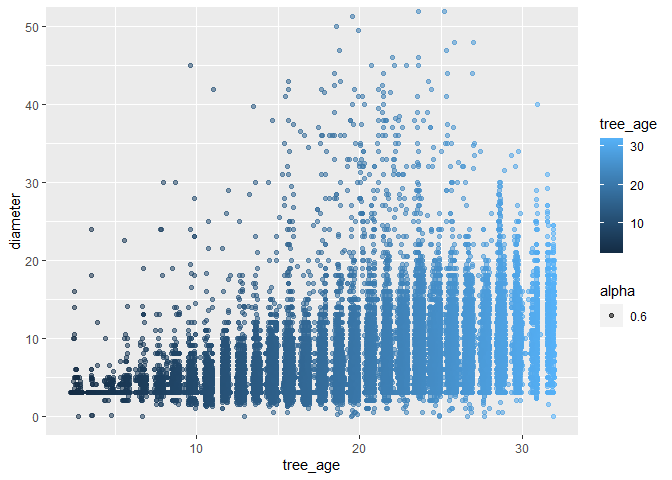
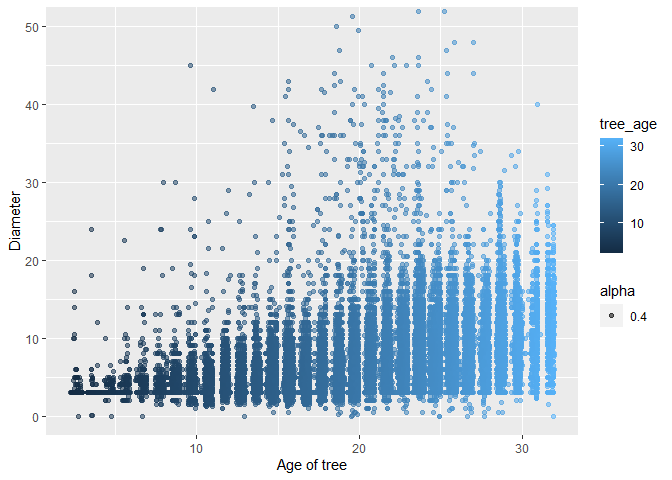
Final update on the analysis. Updated the Rmd file and graphs.

diff --git a/Mini-Data-Analysis.md b/Mini-Data-Analysis.md
@@ -1,10 +1,10 @@
-Mini data analysis - Vancouver trees
+Mini data analysis - vancouver\_trees dataset
 ================
 Yuwei Yang
 2021/10/5
 
 Please install the following three packages before running the code. The
-package datateachr contains 7 data set and we will use 4 of them. The
+package datateachr contains 7 datasets and we will use 4 of them. The
 package tidyverse contains the package dplyr and we will use it to do
 data wrangling. The package ggplot2 is used to do visualization in this
 analysis.
@@ -34,12 +34,12 @@ It currently has 569 rows and 32 columns.
 
 ## 1.2 Explore datasets:
 
-This part, I will check the class of the data using class(), and the
-number of rows and columns, and the name of each columns with some
-useful information using glimse(). You may also use ?dataset to get the
+In this part, I will check the class of the data using class(), and the
+number of rows and columns, and the name of each column with some useful
+information using glimse(). You may also use ?dataset to get the
 description and other relative information for this dataset.
 
-The following is the information for steam\_games data:
+### The following is the information for steam\_games data:
 
 ``` r
 class(steam_games)
@@ -79,7 +79,7 @@ glimpse(steam_games)
 #?steam_games
 ```
 
-The following is the information for flow\_sample data:
+### The following is the information for flow\_sample data:
 
 ``` r
 class(flow_sample)
@@ -101,7 +101,7 @@ glimpse(flow_sample)
     ## $ flow         <dbl> 314, 230, 264, 174, 232, 214, 236, 309, 174, 345, 185, 24~
     ## $ sym          <chr> NA, NA, NA, NA, NA, NA, NA, NA, NA, NA, NA, NA, NA, NA, N~
 
-The following is the information or vancouver\_trees data:
+### The following is the information or vancouver\_trees data:
 
 ``` r
 class(vancouver_trees)
@@ -136,7 +136,7 @@ glimpse(vancouver_trees)
     ## $ longitude          <dbl> -123.1161, -123.1147, -123.0846, -123.0870, -123.08~
     ## $ latitude           <dbl> 49.21776, 49.21776, 49.23938, 49.23469, 49.23894, 4~
 
-The following is the information for cancer\_sample data:
+### The following is the information for cancer\_sample data:
 
 ``` r
 class(cancer_sample)
@@ -185,93 +185,94 @@ glimpse(cancer_sample)
 
 # 1.3 Select dataset:
 
-The following are the questions I have for each dataset.
+The following are the questions I have for each dataset:
 
-steam\_games: 1. Which developer and publisher receive the most
-achievements? 2. Does achievements of the game relate to the
-reviews(both recent and all reviews)?
+*steam\_games:*
 
-flow\_sample: 1. What the relationship of the flow rate respect with
-year? 2. What’s the most busiest day every week?
+1.  Which developer and publisher receive the most achievements?
 
-Vancouver\_trees: 1. For each species, will the height be very
-different? (use jitter plot/side by side boxplot) 2. Will the root
-barrier affect the diameter of the tree within each species? 3. Does the
-plant area relate to the height of the tree? 4. For each neighborhood,
-how many trees were planted?
+2.  Does the achievements of the game relate to the reviews(both recent
+    and all reviews)?
 
-Cancer\_sample: For different diagnosis, will the parameters be
-different?
+*flow\_sample:*
+
+1.  What’s the relationship of the flow rate with respect to year?
+
+2.  What’s the busiest day every week?
+
+*Vancouver\_trees:*
+
+1.  What’s the distribution of the number of trees with respect to
+    different height range?
+
+2.  What’s the relationship between tree diameter and the age of the
+    tree.
+
+3.  Will this relationship be different for each species?
+
+*Cancer\_sample:*
+
+1.  For different diagnoses, will the parameters be different?
 
 I decide to analyze vancouver\_trees because I am currently living in
-vancouver, so I am very interested in the data of this city. Also, the
-data set seems to have some relationships between each variable. For
-example, I am interested in weather the diameter of a tree will be
-affect by other factors.
+Vancouver, so I am very interested in the data of this city. Also, this
+dataset seems to have some interesting relationships between each
+variable. For example, I am interested in whether the diameter of a tree
+will be affected by other factors such as species.
 
-# 2: The following four questions are the goal of this analysis:
+# Task 2: Explore dataset - vancouver\_trees
 
-1.  What’s the distribution of number of trees with respect to different
-    height range?
+## The following three questions are the goal of this analysis:
+
+1.  What’s the distribution of the number of trees with respect to
+    different height range?
 2.  What’s the relationship between tree diameter and the age of this
     tree.
 3.  Will this relationship be different of each species?
-4.  Will the root barrier affect the diameter of the tree within each
-    species?
 
-# 3. Explore dataset
-
-## 1. The first question I am interested in is what the distribution of number of trees with respect to different height range is.I am going to use ggplot2 to plot the distribution of the number of trees using different height range id. The height range is is between 0-10 for every 10 feet (e.g., 0 = 0-10 ft, 1 = 10-20 ft, 2 = 20-30 ft, and 10 = 100+ ft).
+## 1. The first question I am interested in is what the distribution of the number of trees with respect to different height range is. I am going to use ggplot2 to plot the distribution of the number of trees using different height range id. The height range is is between 0-10 for every 10 feet (e.g., 0 = 0-10 ft, 1 = 10-20 ft, 2 = 20-30 ft, and 10 = 100+ ft).
 
 ``` r
 ggplot(vancouver_trees, aes(height_range_id)) +
-  geom_histogram(binwidth=1, fill ="pink", alpha=0.8)+
+  geom_histogram(bins=11, binwidth=1, fill ="pink", alpha=0.8)+
   xlab("Tree Height Range ID")+ylab("Number of Trees")+
-  theme_light()
+  theme_classic()
 ```
 
 ![](Mini-Data-Analysis_files/figure-gfm/unnamed-chunk-6-1.png)<!-- -->
-\#\# 2. The second question I want to analyze is what’s the relationship
-between tree diameter and the age of this tree. I am going to add a new
-column named tree\_age which is the number of years between the trees
-were planted and the current date 2021-10-01(round to 2 decimal places)
-by using dplyr verbs. I will use this tibble later to find the
-relationship between the age of the tree and the height of the tree.
+
+From the histogram above, we can see that most of the trees have a
+height between 10 and 30 ft.
+
+## 2. The second question I want to analyze is the relationship between tree diameter and the age of the tree. I am going to creat a new tibble named vancouver\_trees\_sub which contains species name and diameter. Then, I will add a new column named tree\_age which is the number of years between the tree were planted and the date that this dataset was last updated “2021-10-04”(round to 2 decimal places) by using dplyr verbs. I will use this tibble later to find the relationship between the age of the tree and the height of the tree.
 
 ``` r
-vancouver_trees <- vancouver_trees %>%
+vancouver_trees_sub <- vancouver_trees %>%
   # Calling difftime() function
-  mutate(tree_age = round(as.numeric(difftime("2021-10-01", date_planted, units="days"))/365, 2)) 
+  mutate(tree_age = round(as.numeric(difftime("2021-10-04", date_planted, units="days"))/365, 2)) %>%
   # add tree_age column to vancouver_trees tibble
+  select(species_name, diameter,tree_age)
 
-head(vancouver_trees)
+head(vancouver_trees_sub)
 ```
 
-    ## # A tibble: 6 x 21
-    ##   tree_id civic_number std_street genus_name species_name cultivar_name  
-    ##     <dbl>        <dbl> <chr>      <chr>      <chr>        <chr>          
-    ## 1  149556          494 W 58TH AV  ULMUS      AMERICANA    BRANDON        
-    ## 2  149563          450 W 58TH AV  ZELKOVA    SERRATA      <NA>           
-    ## 3  149579         4994 WINDSOR ST STYRAX     JAPONICA     <NA>           
-    ## 4  149590          858 E 39TH AV  FRAXINUS   AMERICANA    AUTUMN APPLAUSE
-    ## 5  149604         5032 WINDSOR ST ACER       CAMPESTRE    <NA>           
-    ## 6  149616          585 W 61ST AV  PYRUS      CALLERYANA   CHANTICLEER    
-    ## # ... with 15 more variables: common_name <chr>, assigned <chr>,
-    ## #   root_barrier <chr>, plant_area <chr>, on_street_block <dbl>,
-    ## #   on_street <chr>, neighbourhood_name <chr>, street_side_name <chr>,
-    ## #   height_range_id <dbl>, diameter <dbl>, curb <chr>, date_planted <date>,
-    ## #   longitude <dbl>, latitude <dbl>, tree_age <dbl>
+    ## # A tibble: 6 x 3
+    ##   species_name diameter tree_age
+    ##   <chr>           <dbl>    <dbl>
+    ## 1 AMERICANA          10     22.7
+    ## 2 SERRATA            10     25.4
+    ## 3 JAPONICA            4     27.9
+    ## 4 AMERICANA          18     25.4
+    ## 5 CAMPESTRE           9     27.8
+    ## 6 CALLERYANA          5     NA
 
-3.  Next, I am going to find out if there is a relationship between the
-    age of the tree and the diameter of the tree. I will use ggplot2
-    package to plot the jitter plot. I set the range of diameter to 0
-    and 50 because I want to get rid of the outliers in the graph, so it
-    is more easier to see.
+## 3. Next, I am going to find out if there is a relationship between the age of the tree and the diameter of the tree. I will use ggplot2 package to plot the jitterplot. I set the range of diameter to 0 and 50 because I want to get rid of the outliers in the graph, so it is easier to see the relationship.
 
 ``` r
-ggplot(vancouver_trees, aes(tree_age, diameter))+
-  geom_jitter(outlier.shape = NA, aes(alpha=0.6, colour=tree_age))+
-  coord_cartesian(ylim =  c(0, 50))
+ggplot(vancouver_trees_sub, aes(tree_age, diameter))+
+  geom_jitter(outlier.shape = NA, aes(alpha=0.4, colour=tree_age))+
+  coord_cartesian(ylim =  c(0, 50))+
+  xlab("Age of tree")+ylab("Diameter")
 ```
 
     ## Warning: Ignoring unknown parameters: outlier.shape
@@ -279,50 +280,40 @@ ggplot(vancouver_trees, aes(tree_age, diameter))+
     ## Warning: Removed 76548 rows containing missing values (geom_point).
 
 ![](Mini-Data-Analysis_files/figure-gfm/unnamed-chunk-8-1.png)<!-- -->
-4. As we can see, from the jitterplot, it seems that the diameter of
-three tend to be larger as the age getting larger. So, next, I want to
-analyze this relationship in details by separating the trees into
-different species and look at the relationship within each species. I
-will use both dplyr and ggplot2 in this part. Also, I want to plot only
-those species with more than 5000 trees so we have big enough sample to
-analyze. You may noticed I set the range of the diameter to 0 and 25
-this time is because I want to get rid of the most outliers for these
-species.
+
+## 4. As we can see, from the jitterplot, it seems that the diameter of trees tends to be larger as the age getting larger. So, next, I want to analyze this relationship in detail by separating the trees into different species and look at the relationship within each species. I will use both dplyr and ggplot2 in this part. Also, I want to plot only those species that have more than 5000 trees so we have enough samples to analyze. You may be noticed that I set the range of the diameter to 0 and 35, and this is because I want to get rid of the most outliers for these species.
 
 ``` r
- vancouver_trees%>%
+vancouver_trees_sub %>%
   group_by(species_name) %>%
   filter(n() >5000) %>%
+  # Filter the species that have more than 5000 trees
   ggplot(aes(tree_age, diameter))+ 
-  geom_point()+  facet_wrap(~species_name)+
-  coord_cartesian(ylim =  c(0,35))
+  geom_point(aes(alpha=0.4, colour=tree_age),size=1)+  
+  facet_wrap(~species_name)+
+  coord_cartesian(ylim =  c(0,35))+
+  xlab("Age of tree")+ylab("Diameter")
 ```
 
     ## Warning: Removed 36570 rows containing missing values (geom_point).
 
 ![](Mini-Data-Analysis_files/figure-gfm/unnamed-chunk-9-1.png)<!-- -->
 
-Again, the diameter of the tree seems to have positive relationship with
-the age of the tree within each species. And some of species tend of
-have larger diameter than others such as Serrulata tend to have larger
-diameter when its age getting older.
+Again, the diameter of the tree seems to have a positive relationship
+with the age of the tree within each species. And some species tend to
+have a larger diameter than others such as Serrulata tend to have a
+larger diameter when their age getting older.
 
-5.  And the last thing I can think about is the root barrier might
-    affect the trees’ diameter as well. I am going using the same plot
-    above but with different color for each root barrier.
+# Task 3: Research Questions
 
-``` r
-vancouver_trees %>%
-  group_by(species_name)%>%
-  filter(n()>5000) %>%
-  ggplot(aes(tree_age, diameter))+ 
-  geom_point(aes(colour=root_barrier))+  facet_wrap(~species_name)+
-  coord_cartesian(ylim =  c(0, 35))
-```
+1.  Will the root barrier affect the diameter of the tree?
+2.  What’s the relationship between diameter and plant\_area?
+3.  What’s the relationship between the height and the age of the tree?
+4.  How many trees are there in each neighborhood?
 
-    ## Warning: Removed 36570 rows containing missing values (geom_point).
-
-![](Mini-Data-Analysis_files/figure-gfm/unnamed-chunk-10-1.png)<!-- -->
-
-From the graphs, I don’t think the root barrier is affecting the
-diameter of the trees.
+These are the four questions I want to analyze. First of all, I want to
+further explore the relationship of the diameter with other factors, so
+I pick root barrier and plant\_are. I am not sure if there are other
+factors related to diameter. I would like to have suggestions on this.
+Also, I think height might relate to the age of the tree, but with
+height range, it might cause some problems.

diff --git a/README.md b/README.md
@@ -1,1 +1,20 @@
-# Mini-Data-Analysis-1---Yuwei
+# STAT 545A Mini-Data-Analysis-1
+
+*Author: "Yuwei Yang"*
+
+
+
+The repository [Mini Data Analysis 1](https://github.com/stat545ubc-2021/Mini-Data-Analysis-1---Yuwei) was created under the [stat545ubc-2021 GitHub account](https://github.com/stat545ubc-2021)  to complete the [Mini Data-Analysis Deliverable 1](https://stat545.stat.ubc.ca/mini-project/mini-project-1/) for the [STAT545 2021 course](https://stat545.stat.ubc.ca/;). The goals of this first project are to become familiar with the vancouver_trees dataset, think of 4 questions for further analysis, and generate a reproducible clear report using R Markdown. The repository contains a file with graphs and two documents in different formats; markdown (`.md`), and RMarkdown (`.Rmd`).
+
+
+## Documents on the repository:
+
+1. **README:** contains a description of the project. 
+
+2. **Mini_Data_Analysis:** contains the analysis of vancouver_trees dataset and R code I wrote in order to generate useful information, tibble and plots for the analysis. 
+
+2. **Mini_Data_Analysis_files:** contains four graphs generated by R code. 
+
+## How to run the code?
+
+Markdown (`.md`) and RMarkdown (`.Rmd`) files can be opened and modified using any text editor. However, using Rstudio you can have a more friendly visualization of the code and render it to different file types such as `html` or `pdf` using `Preview` in markdown documents or `Knit` in RMarkdown documents. 
